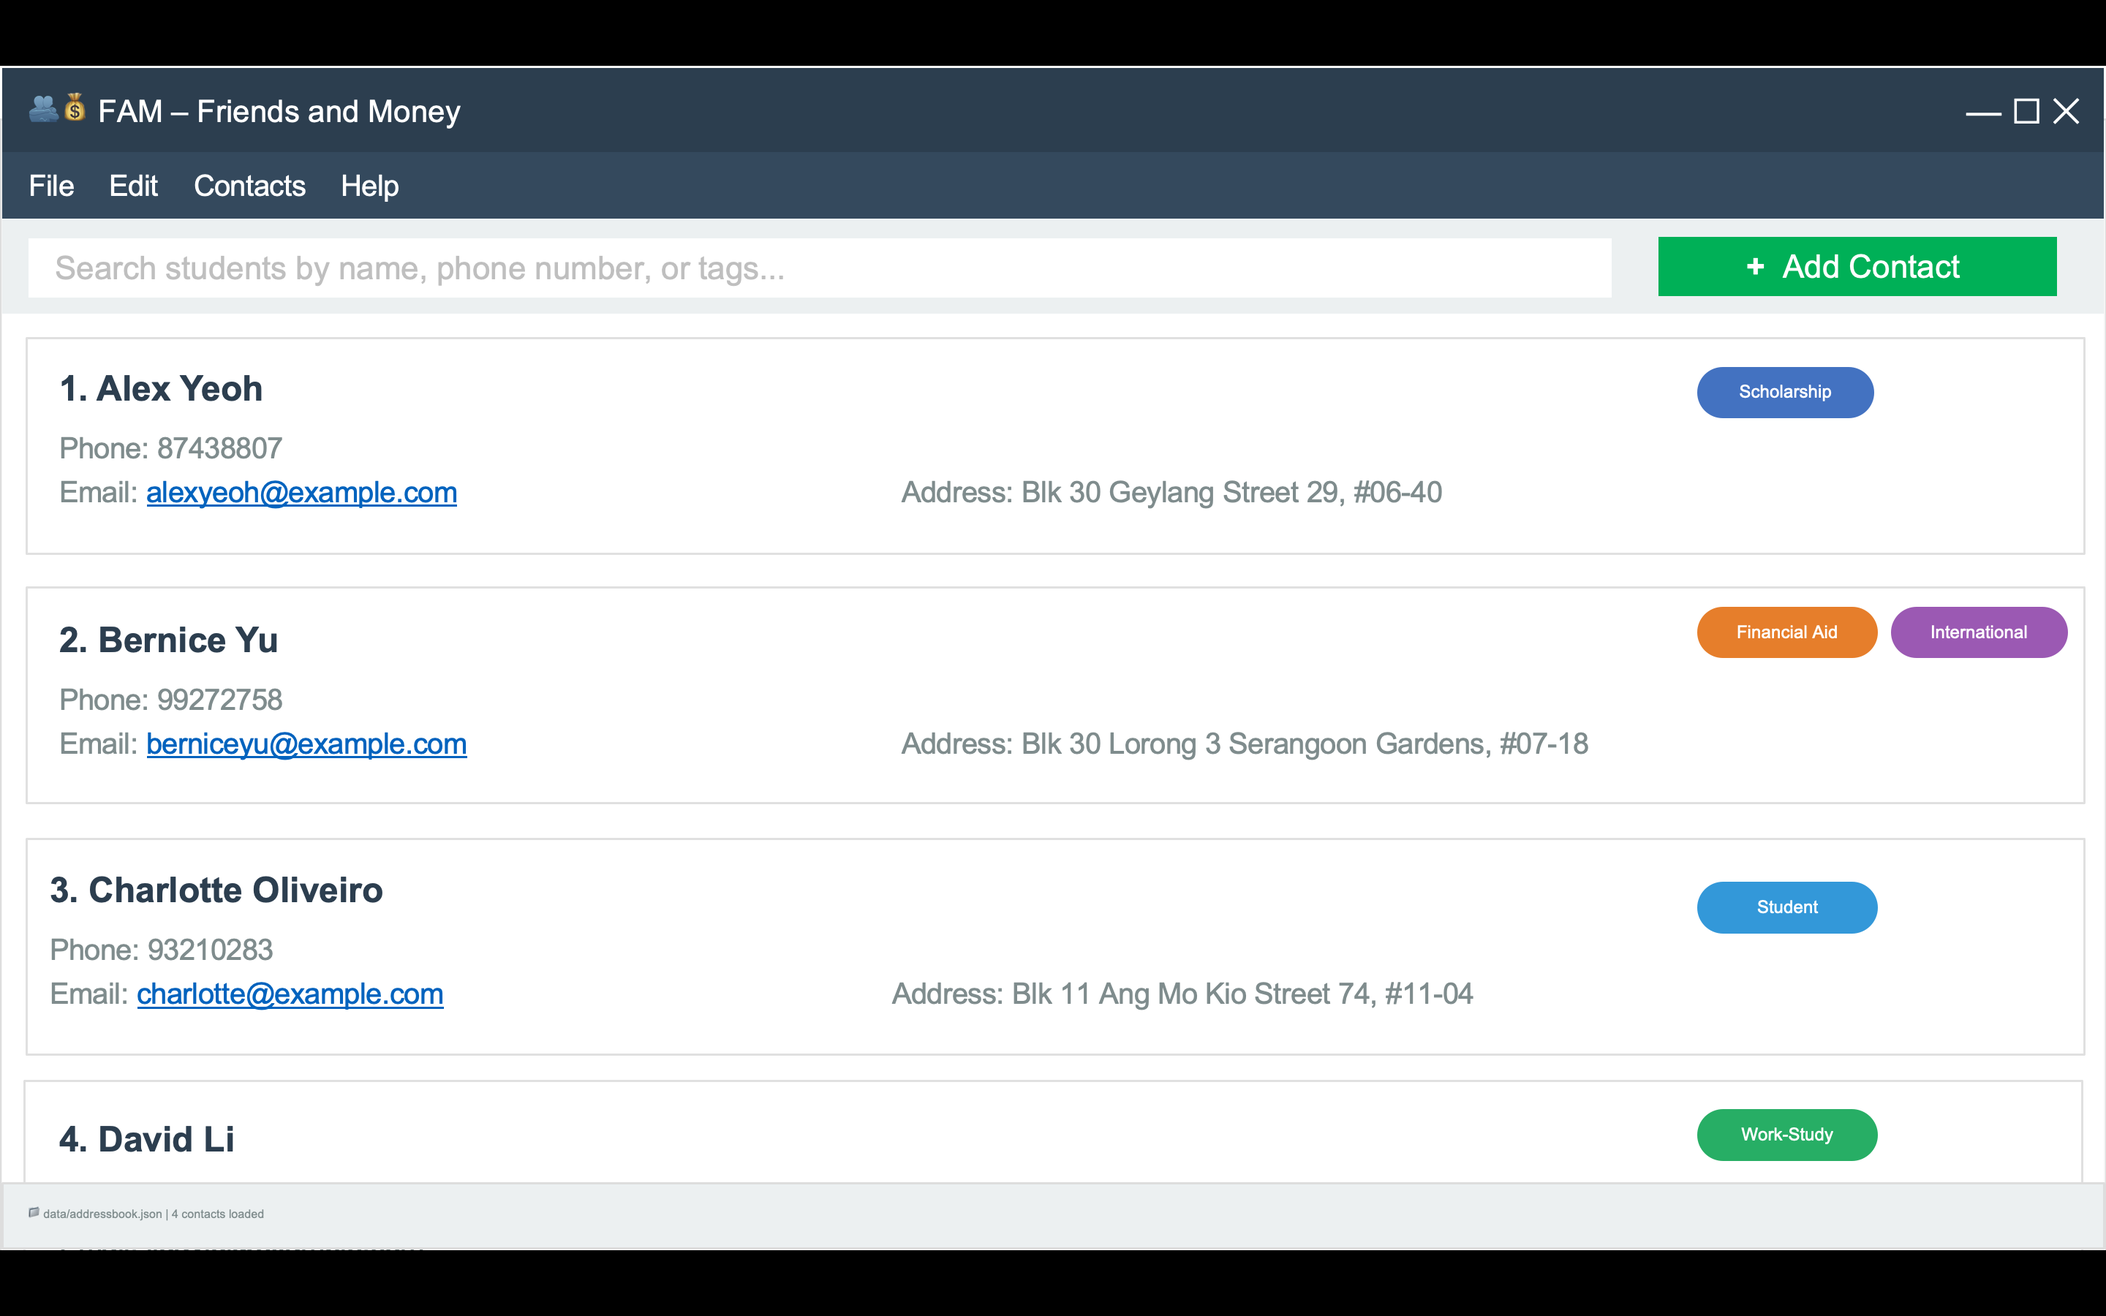
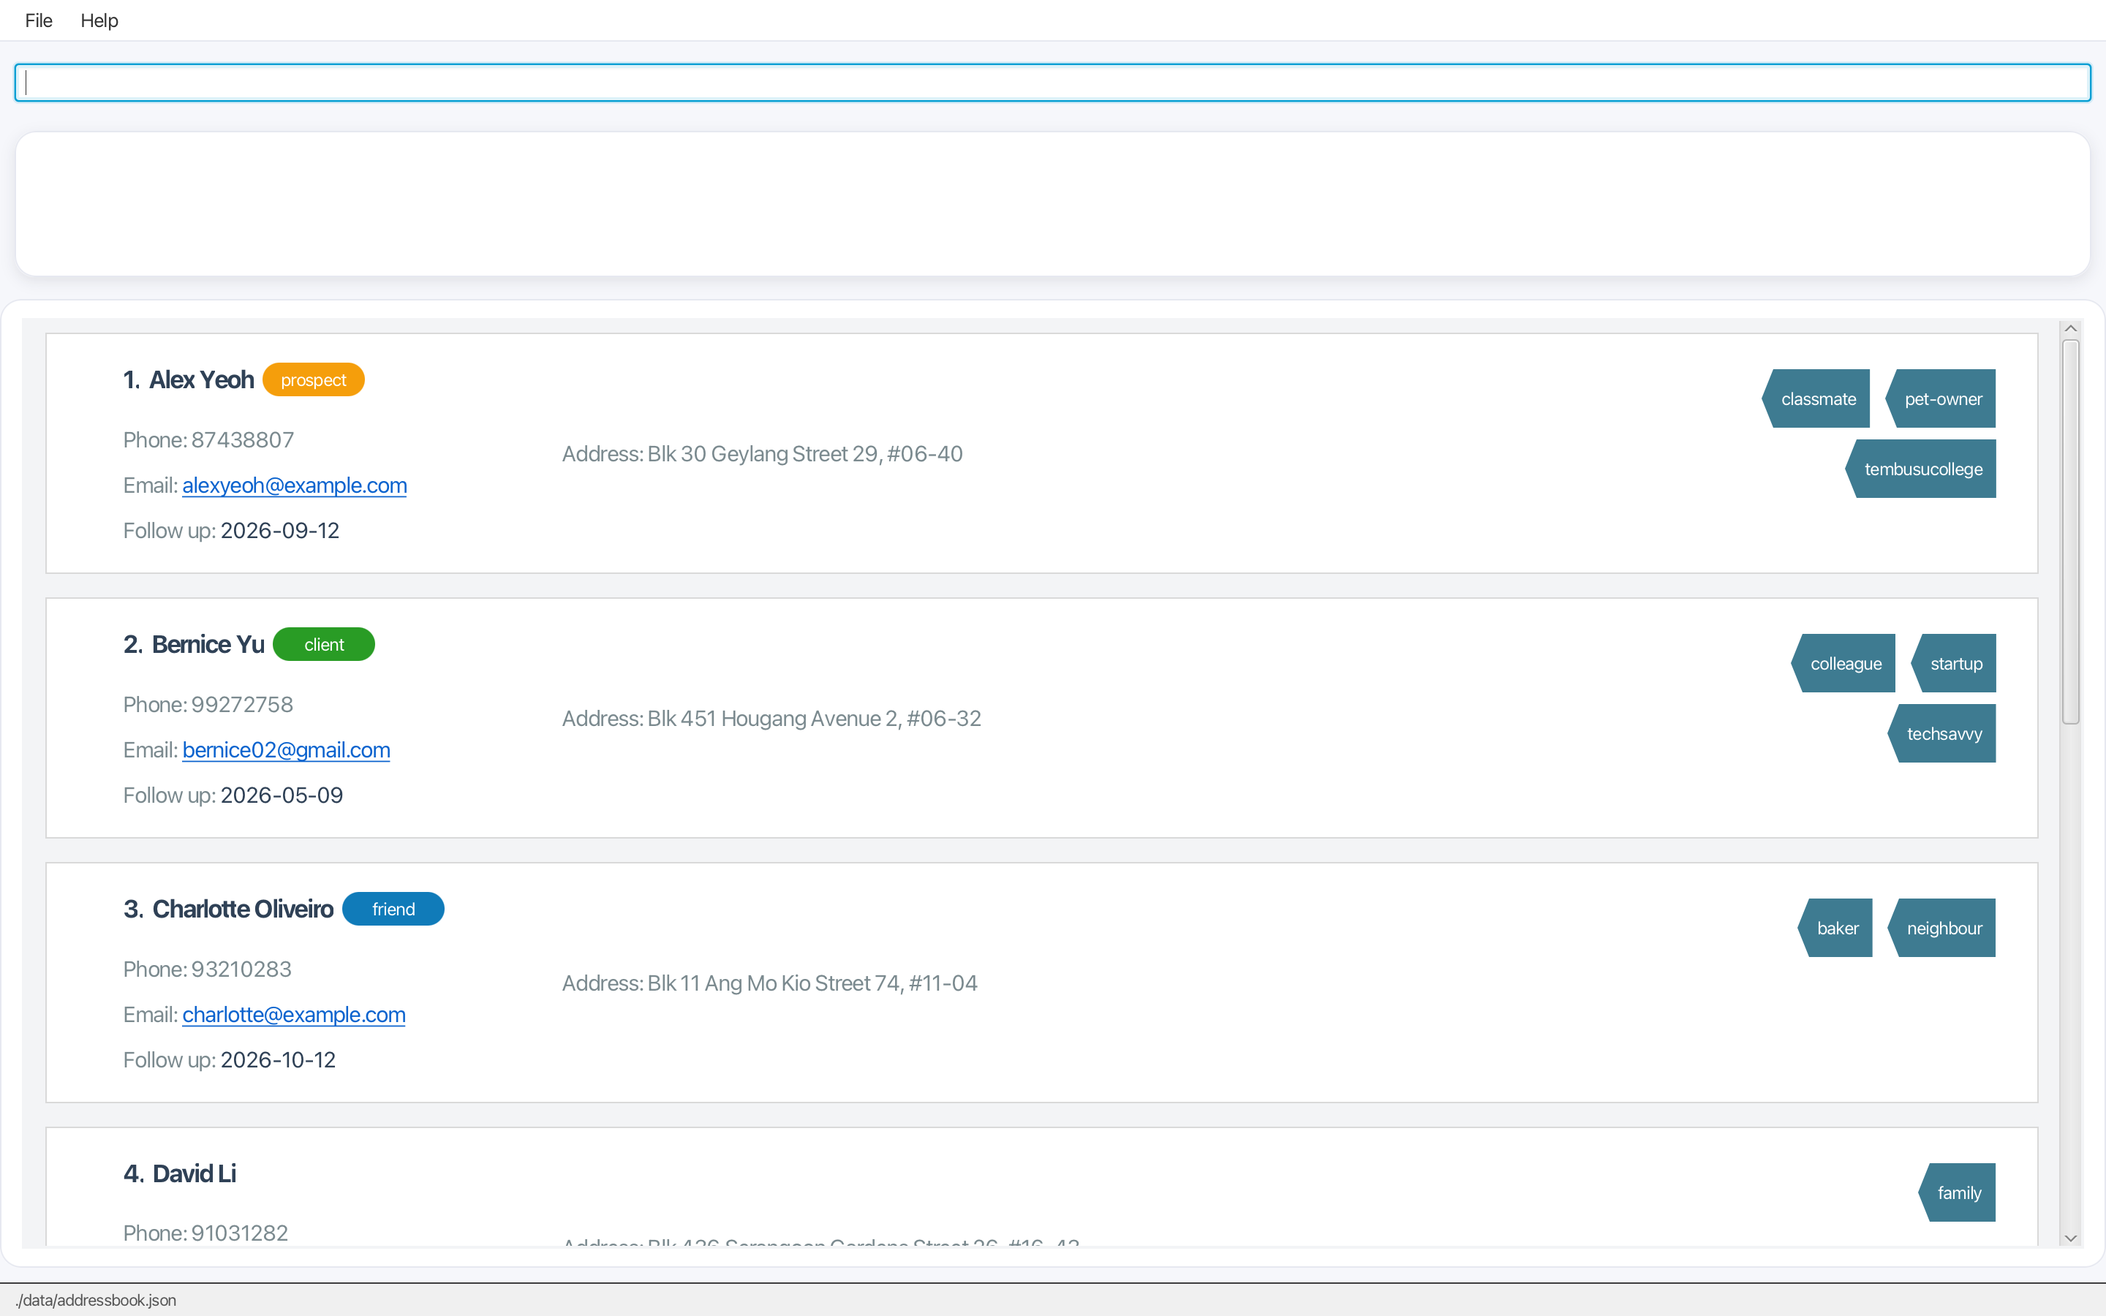
Update UG

diff --git a/docs/UserGuide.md b/docs/UserGuide.md
@@ -23,6 +23,7 @@ A **Graphical User Interface (GUI)** is provided too, so that you can have the b
     * [Edit](#editing-a-person--edit)
     * [Find](#locating-persons-by-name-find)
     * [View](#viewing-a-person--view)
+    * [View mode](#view-mode)
     * [Delete](#deleting-a-person--delete)
     * [Tag Add](#adding-a-tag--tagadd)
     * [Tag Remove](#removing-a-tag--tagrm)
@@ -124,21 +125,25 @@ Format: `help`
 Adds a person to the address book.
 
 * Minimum required fields: `n/NAME` and `p/PHONE_NUMBER`.
-* Name has to be alphanumeric and can contain spaces, but cannot be blank.
-* Phone number has to be numeric and cannot be blank.
+* Name must be alphanumeric and can contain spaces, but cannot be blank. Name does not have to be unique across contacts.
+* Phone number must be numeric and cannot be blank.
+* Phone number and email must be unique across contacts. If a duplicate phone number or email is detected, the contact will not be added.
 * Email, address, and tag are optional. These values can be updated after the contact is created using the `edit` command.
+* Refer to [Field Constraints Summary](#field-constraints-summary) for a summary of the field constraints.
 
 Format: `add n/NAME p/PHONE_NUMBER [e/EMAIL] [a/ADDRESS] [t/TAG]…`
-
-<div markdown="span" class="alert alert-primary">
-
-**Tip:** A person can have a maximum of 5 tags.
-
-</div>
 
 Examples:
 * `add n/John Doe p/98765432 e/johnd@example.com a/John street, block 123, #01-01`
 * `add n/Betsy Crowe t/friend e/betsycrowe@example.com a/Newgate Prison p/1234567 t/criminal`
+
+<div markdown="span" class="alert alert-info">
+
+:information_source: **Note:** If prefixes are not typed correctly or separated by spaces, they may be read as part of the previous field.  
+For example, `a/123 Streetp/91234567` may cause the phone number to be included in the address.  
+To prevent this, ensure all prefixes are valid and separated by spaces.
+
+</div>
 
 ### Listing all persons : `list`
 
@@ -154,29 +159,35 @@ Format: `edit INDEX [n/NAME] [p/PHONE] [e/EMAIL] [a/ADDRESS] [t/TAG] [d/FOLLOWUP
 
 * Edits the person at the specified `INDEX`. The index refers to the index number shown in the displayed person list. 
 * The index **must be a positive integer** `1, 2, 3, …`
-* At least one of the optional fields must be provided.
+* In [view mode](#view-mode), the index of the displayed contact is always `1`.
+* At least one of the optional fields must be provided. 
+* If no fields are modified, the command will be rejected.
 * Existing values will be updated to the input values.
+* Refer to [Field Constraints Summary](#field-constraints-summary) for a summary of the field constraints.
 
-<details markdown="block">
-<summary><strong>Editing Tags</strong></summary>
+<div markdown="span" class="alert alert-info">
+
+:information_source: **Note:** If prefixes are not typed correctly or separated by spaces, they may be read as part of the previous field.  
+For example, `a/123 Streetp/91234567` may cause the phone number to be included in the address.  
+To prevent this, ensure all prefixes are valid and separated by spaces.
+
+</div>
+
+#### Editing Tags
 
 * You can remove all the person's tags by typing `t/` without specifying any tags after it.
 * You can input multiple tags under the `edit` command. Each tag should have its own `t/` prefix.
-* When editing tags, you must specify **all** the tags that the person should have after the edit. Existing tags will 
-* be replaced by the set of tags provided in the `edit` command.
+* When editing tags, you must specify **all** the tags that the person should have after the edit. Existing tags will be replaced by the set of tags provided in the `edit` command.
 * If you want to add or remove tags one at a time, use `tagadd` or `tagrm` instead.
 
 <div markdown="span" class="alert alert-warning">
 
 **Warning:** Editing tags will replace all existing tags. Make sure to include all the tags you want the person to have 
 when using `edit`.<br>
-
 **Example:**
 A contact initially has the tags `friend` and `colleague`. After you run `edit 1 t/friend t/cafe`, only the tags `friend` and `cafe` will be displayed.
 
 </div>
-
-</details>
 
 Examples:
 * `edit 1 p/91234567 e/johndoe@example.com c/friend` edits the phone number, email address, and circle of the 1st person to be `91234567`, `johndoe@example.com`, and `friend` respectively.
@@ -216,7 +227,7 @@ Examples:
 ### View Mode
 
 The screenshot below shows the app in View Mode.
-![View screenshot](images/View1.png)
+![View screenshot](images/View.png)
 
 After running `view`, the app enters **View Mode**, displaying the full details of the selected contact.
 
@@ -228,7 +239,7 @@ While in View Mode:
 
 <div markdown="span" class="alert alert-primary">
 
- **Tip:** To view a different contact, run `list` first, then `view` on the desired index.
+ :bulb: **Tip:** To view a different contact, run `list` first, then `view` on the desired index.
 
 </div>
 
@@ -241,6 +252,7 @@ Format: `delete INDEX`
 * Deletes the person at the specified `INDEX`.
 * The index refers to the number shown beside your contact's name.
 * The index **must be a positive integer** (e.g. `1, 2, 3, ...`) and be within the valid range of contacts.
+* In [view mode](#view-mode), the index of the displayed contact is always `1`.
 * A **confirmation message** will be shown before deletion. You will need to click `OK` to confirm the deletion.
 
 Examples:
@@ -254,6 +266,7 @@ Adds a tag to an existing person in the address book, one at a time.
 Format: `tagadd INDEX t/TAG`
 
 * Adds a tag to the person at the specified `INDEX`. The index refers to the index number shown in the displayed person list. The index **must be a positive integer** `1, 2, 3, …`
+* In [view mode](#view-mode), the index of the displayed contact is always `1`.
 * Only 1 tag can be added at a time. `t/tag t/tag2` will not work.
 * Creates the tag if it does not already exist.
 * If the tag already exists, the addition of the tag will not be allowed.
@@ -262,6 +275,11 @@ Format: `tagadd INDEX t/TAG`
 Examples:
 * `tagadd 1 t/friend` adds the tag `friend` to the 1st person in the address book.
 
+<div markdown="span" class="alert alert-primary">
+
+:bulb: **Tip:** To add more than 1 tag at once, use `edit`.
+
+</div>
 ### Removing a tag : `tagrm`
 
 Removes a tag from an existing person in the address book, one at a time.
@@ -269,6 +287,7 @@ Removes a tag from an existing person in the address book, one at a time.
 Format: `tagrm INDEX t/TAG`
 
 * Removes a tag from the person at the specified `INDEX`. The index refers to the index number shown in the displayed person list. The index **must be a positive integer** `1, 2, 3, …`
+* In [view mode](#view-mode), the index of the displayed contact is always `1`.
 * Only 1 tag can be removed at a time. `t/tag t/tag2` will not work.
 * Removes the tag if it exists for the person.
 * If the tag does not exist, the deletion of the tag will not be allowed.
@@ -277,6 +296,12 @@ Format: `tagrm INDEX t/TAG`
 Examples:
 * `tagrm 1 t/friend` removes the tag `friend` from the 1st person in the address book.
 
+<div markdown="span" class="alert alert-primary">
+
+:bulb: **Tip:** To remove more than 1 tag at once, use `edit`.
+
+</div>
+
 ### Add notes to a person : `note`
 
 Adds a note to an existing person in the address book.
@@ -284,6 +309,7 @@ Adds a note to an existing person in the address book.
 Format: `note INDEX note/NOTE`
 
 * Adds a note to the person at the specified `INDEX`. The index refers to the index number shown in the displayed person list. The index **must be a positive integer** `1, 2, 3, …`
+* In [view mode](#view-mode), the index of the displayed contact is always `1`.
 * All text after `note/` will be treated as content for the note, including spaces and slashes.
 * Blank notes (i.e. `note/` without any text after it) will not be added.
 * Notes will only show up after running `view`.
@@ -308,6 +334,7 @@ Clears all notes of a person in the address book.
 Format: `noteclear INDEX`
 
 * Clears all notes of the person at the specified `INDEX`. The index refers to the index number shown in the displayed person list. The index **must be a positive integer** `1, 2, 3, …`
+* In [view mode](#view-mode), the index of the displayed contact is always `1`.
 * When `view`ing a person, their removed notes will no longer be shown.
 
 Examples:
@@ -322,6 +349,7 @@ Format: `circleadd INDEX c/CIRCLE`
 
 * The circle will be added to the person at the specified `INDEX`. The index refers to the index number shown in the displayed person list. The index **must be a positive integer** `1, 2, 3, …`
 * There are only 3 types of circles: `client`, `prospect`, and `friend`. The circle must be one of these 3 types. Any other value given to `circleadd` will be rejected.
+* In [view mode](#view-mode), the index of the displayed contact is always `1`.
 * Only 1 circle can be added at a time to 1 contact.
 * If the person already has a circle, the addition of the circle will not be allowed.
 * Note: A circle can only be added via the `circleadd` and `edit` commands, but not the `add` command.
@@ -340,11 +368,11 @@ Format: `circlerm INDEX`
 
 * The circle will be removed from the person at the specified `INDEX`. The index refers to the index number shown in 
 the displayed person list. The index **must be a positive integer** `1, 2, 3, …`
+* In [view mode](#view-mode), the index of the displayed contact is always `1`.
 * Only 1 circle can be removed at a time from 1 contact.
 * If the person does not have a circle, the deletion of the circle will not be allowed.
 * To edit an existing circle, you will need to first remove the existing circle using the `circlerm` command, and then 
 add the new circle using the `circleadd` command.
-* Note: A circle can be removed via both the `circlerm` and `edit` commands.
 
 Examples:
 * `circlerm 1` removes the circle from the 1st person in the address book, regardless of the circle.
@@ -380,6 +408,7 @@ Format: `followup INDEX d/DATE`
 
 * Sets the follow-up date for the contact at the specified `INDEX`. The index refers to the index number shown in the 
 displayed person list. The index **must be a positive integer** `1, 2, 3, …`
+* In [view mode](#view-mode), the index of the displayed contact is always `1`.
 * `DATE` must be in the format `YYYY-MM-DD` (e.g. `2026-04-01`).
 * Past dates are allowed, but the app will show a warning after the date is set.
 * Dates more than 5 years from today are allowed, but the app will show a warning after the date is set.
@@ -402,6 +431,7 @@ Format: `followupclear INDEX`
 * Clears the follow-up date of the contact at the specified `INDEX`.
 * The index refers to the index number shown in the displayed person list.
 * The index **must be a positive integer** `1, 2, 3, …`
+* In [view mode](#view-mode), the index of the displayed contact is always `1`.
 * Note: A follow-up date can only be removed via the `followupclear` command.
 
 Examples:
@@ -457,7 +487,7 @@ welcome to update data directly by editing that data file.
 empty address book on the next startup. The UI will display:
 `Data file could not be loaded. Starting with empty address book.`
 
-<div markdown="span" class="alert alert-warning">
+<div markdown="span" class="alert alert-danger">
 :warning: Warning: Although the storage file can still be manually corrected to a valid format, **running any command 
 while FAM is in this empty state will overwrite the file and permanently erase all existing data.**
 
@@ -466,33 +496,29 @@ until the file has been fixed.
 
 </div>
 
-### Archiving data files `[coming in v2.0]`
-
-_Details coming soon ..._
-
 --------------------------------------------------------------------------------------------------------------------
 
 ## FAQ
 
-**Q**: How do I transfer my data to another computer?
+**Q**: How do I transfer my data to another computer? <br>
 **A**: Install FAM on the other computer. Overwrite the empty data file that it creates with the file from your previous FAM home folder that contains your data.
 
-**Q**: Can I add a circle or follow-up date when using `add`?
+**Q**: Can I add a circle or follow-up date when using `add`? <br>
 **A**: No. `add` only creates the contact. To add a circle or follow-up date, use `circleadd`, `followup`, or `edit` afterward.
 
-**Q**: Does `edit` add tags to the contact’s existing tags?
+**Q**: Does `edit` add tags to the contact’s existing tags? <br>
 **A**: No. Using `edit` with `t/` replaces the contact’s entire tag list with the new tags provided. Use `tagadd` or `tagrm` to modify tags one at a time.
 
-**Q**: How do I remove all tags from a contact?
+**Q**: How do I remove all tags from a contact? <br>
 **A**: Use `edit INDEX t/` to clear all tags for that contact.
 
-**Q**: Why do I have to use index `1` after `view`?
+**Q**: Why do I have to use index `1` after `view`? <br>
 **A**: In View Mode, only the selected contact is shown, so commands that require an index must use `1`.
 
-**Q**: Why is a contact not shown in `remind`?
+**Q**: Why is a contact not shown in `remind`? <br>
 **A**: Only contacts with a follow-up date are shown by `remind`.
 
-**Q**: Can I undo a `delete` or `clear` command?
+**Q**: Can I undo a `delete` or `clear` command? <br>
 **A**: No. There is currently no undo feature, so users should confirm carefully before deleting data.
 
 --------------------------------------------------------------------------------------------------------------------
@@ -506,12 +532,30 @@ application before running the application again.
 shortcut `F1`), the original Help Window will remain minimized, and no new Help Window will appear. The remedy is to manually restore the minimized Help Window.
 
 --------------------------------------------------------------------------------------------------------------------
+### Field Constraints Summary 
+
+| Field | Required | Format / Value                                                                     | Unique* | Modifiable | Removable | Notes                                                                               |
+|------|----------|------------------------------------------------------------------------------------|---------|------------|------------|-------------------------------------------------------------------------------------|
+| **Name** | Yes | Alphanumeric with spaces                                                           | No      | Yes | No | Can be duplicated across contacts                                                   |
+| **Phone Number** | Yes | Numbers only, at least 3 and at most 17 digits                                     | Yes     | Yes | No | Each contact can have only one phone number                                         |
+| **Email** | No | Valid email format                                                                 | Yes     | Yes | No | Optional when adding, but cannot be removed once added                              |
+| **Address** | No | Accepts any value                                                                  | No      | Yes | No | Optional when adding, but cannot be removed once added                              |
+| **Circle** | No | Must be `client`, `prospect`, or `friend`                                          | No      | Yes | Yes | Each contact can only have one circle.                                              |
+| **Note** | No | Accepts any value, max 1000 characters total                                       | No      | Yes | Yes | Can only be added via `note` and removed via `noteclear`, visible only in View Mode |
+| **Follow-up Date** | No | Format: `YYYY-MM-DD`, must be a valid calendar date                                | No      | Yes | Yes | Warning shown if date is in the past                                                |
+| **Tag** | No | 1–20 characters per tag, alphanumeric or hyphens only, no spaces, case-insensitive | No      | Yes | Yes | Max 5 tags per contact, tag cannot be duplicated for the same contact               |
+
+<div markdown="span" class="alert alert-info">
+
+*Note: Unique means the value cannot be duplicated across different contacts.
+
+</div>
 
 ## Command Summary
 
 Action | Format, Examples
 --------|------------------
-**Add** | `add n/NAME p/PHONE_NUMBER [e/EMAIL] [a/ADDRESS] [t/TAG]…` <br> e.g. `add n/James Ho p/22224444 e/jamesho@example.com a/123, Clementi Rd, 1234665 t/friend t/colleague`
+**Add** |`add n/NAME p/PHONE_NUMBER [e/EMAIL] [a/ADDRESS] [t/TAG]…` <br> e.g. `add n/James Ho p/22224444 e/jamesho@example.com a/123, Clementi Rd, 1234665 t/friend t/colleague`
 **Clear** | `clear`
 **Delete** | `delete INDEX` <br> e.g. `delete 3`
 **Edit** | `edit INDEX [n/NAME] [p/PHONE_NUMBER] [e/EMAIL] [a/ADDRESS] [t/TAG]…` <br> e.g. `edit 2 n/James Lee e/jameslee@example.com`

diff --git a/README.md b/README.md
@@ -9,20 +9,24 @@
 
 ## Description
 
-It is named `Friends And Money` (`FAM` for short) because is aimed to cultivate a FAMily culture between students and financial advisors
+It is named `Friends And Money` (`FAM` for short) because is aimed to cultivate a FAMily culture between students and financial advisors.
 
-FAM has utilises the following features: <br>
+FAM offers the following features: <br>
 * Add contact
 * List contacts
 * View contact (by index)
 * Find contacts by name keyword
 * Edit contact
 * Delete contact (with confirmation)
-* Tagging (add/remove tags)
+* Tag management (add/remove tags)
+* Notes management (add/clear notes)
+* Circle management (add/remove relationship type: client/prospect/friend)
+* Follow-up tracking (set/clear follow-up dates)
+* Reminder system (view upcoming follow-ups)
 
 ### Example usages:
   * add n/Tian Jiarui p/91234567 e/jiarui@gmail.com a/geylang 6767 #67-69 t/insurance
-  * edit 1 e/tianyu@gmail.com a/geylang st 123
+  * edit 1 e/tianyu@gmail.com a/geylang st 123 c/client d/2026-09-21
 
 ---
 
